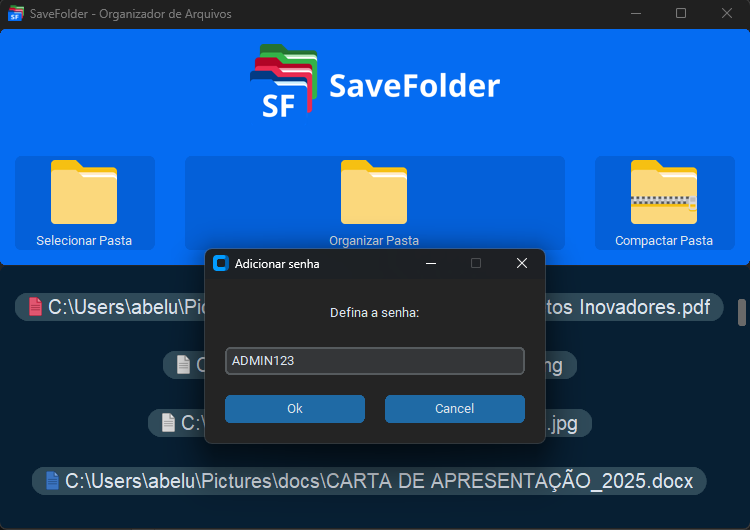
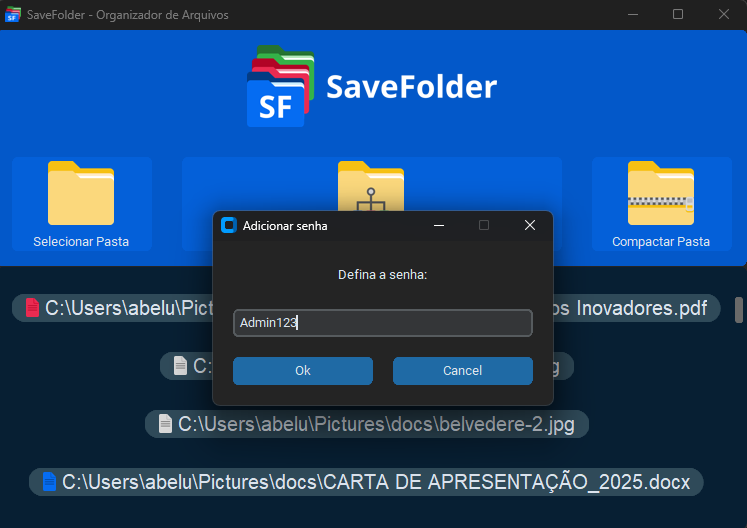
Mensagem de criptografia ajustada + imgs atualizadas

diff --git a/main.py b/main.py
@@ -170,7 +170,10 @@ class App:
                     zf.write(file_path, arcname)
 
             self.btn_zip_folder.toggle_state()
-            MASTER.show_message("Compactar Pasta", "A pasta foi compactada com criptografia AES com sucesso!")
+            if zip_password:
+                MASTER.show_message("Compactar Pasta", "A pasta foi compactada com criptografia AES com sucesso!")
+            else:
+               MASTER.show_message("Compactar Pasta", "A pasta foi compactada com sucesso!")
 
     def ask_zip_password(self) -> bytes | None:
         """Obtem e retorna a senha definida em bytes se o usuário quiser proteger o .ZIP."""
